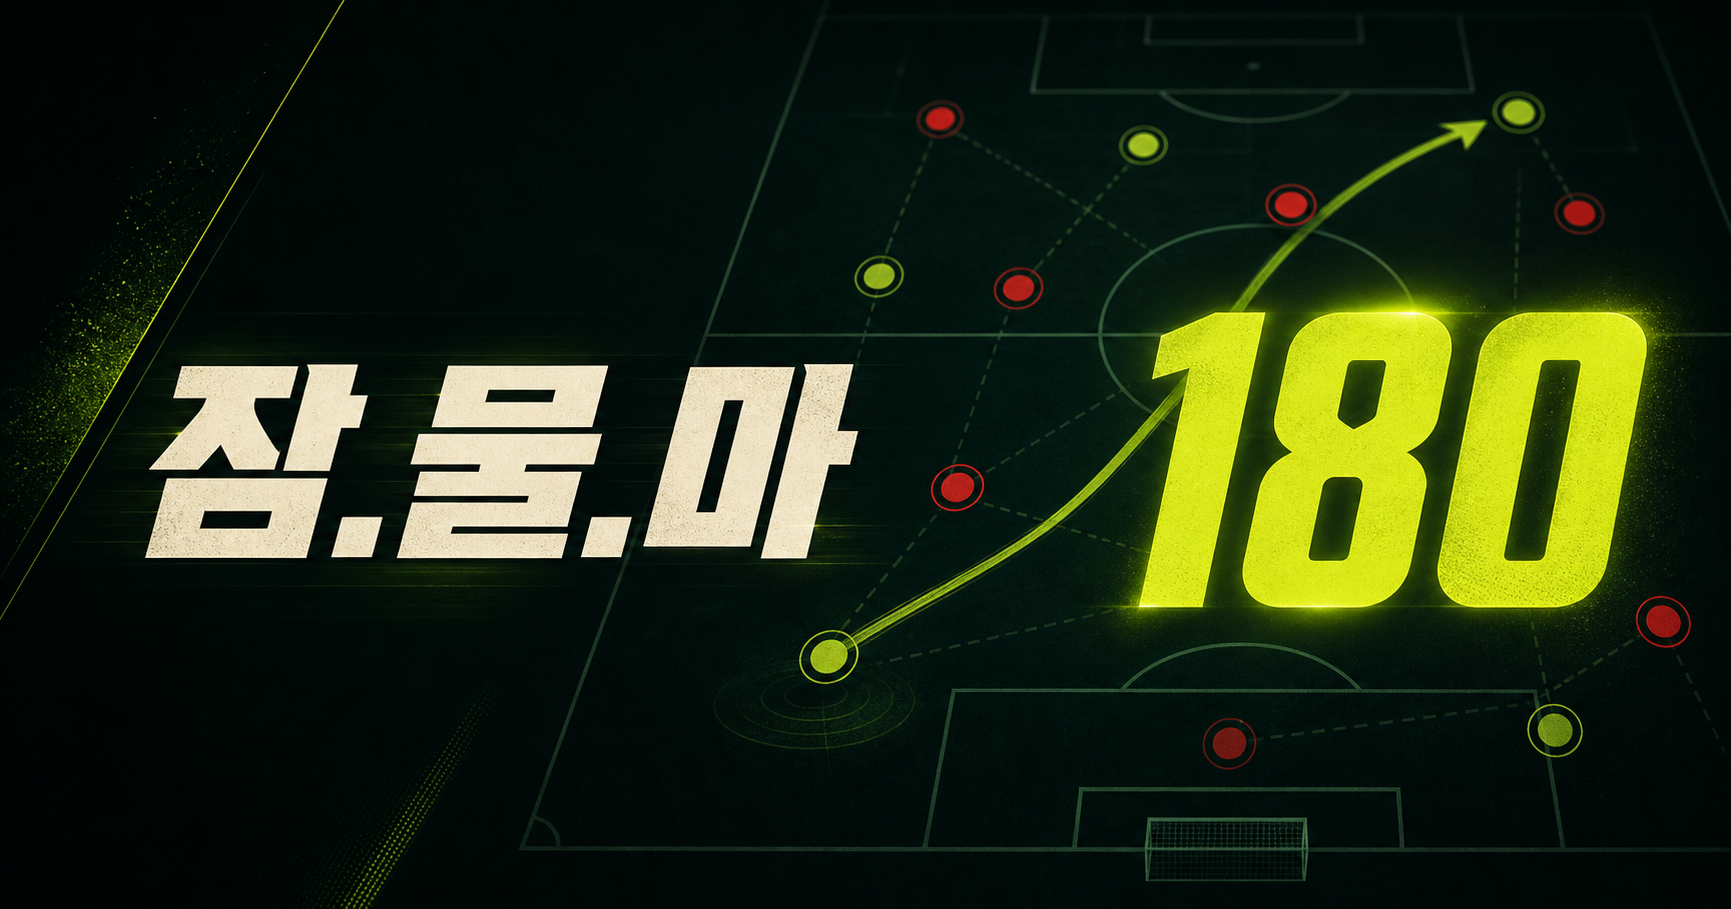
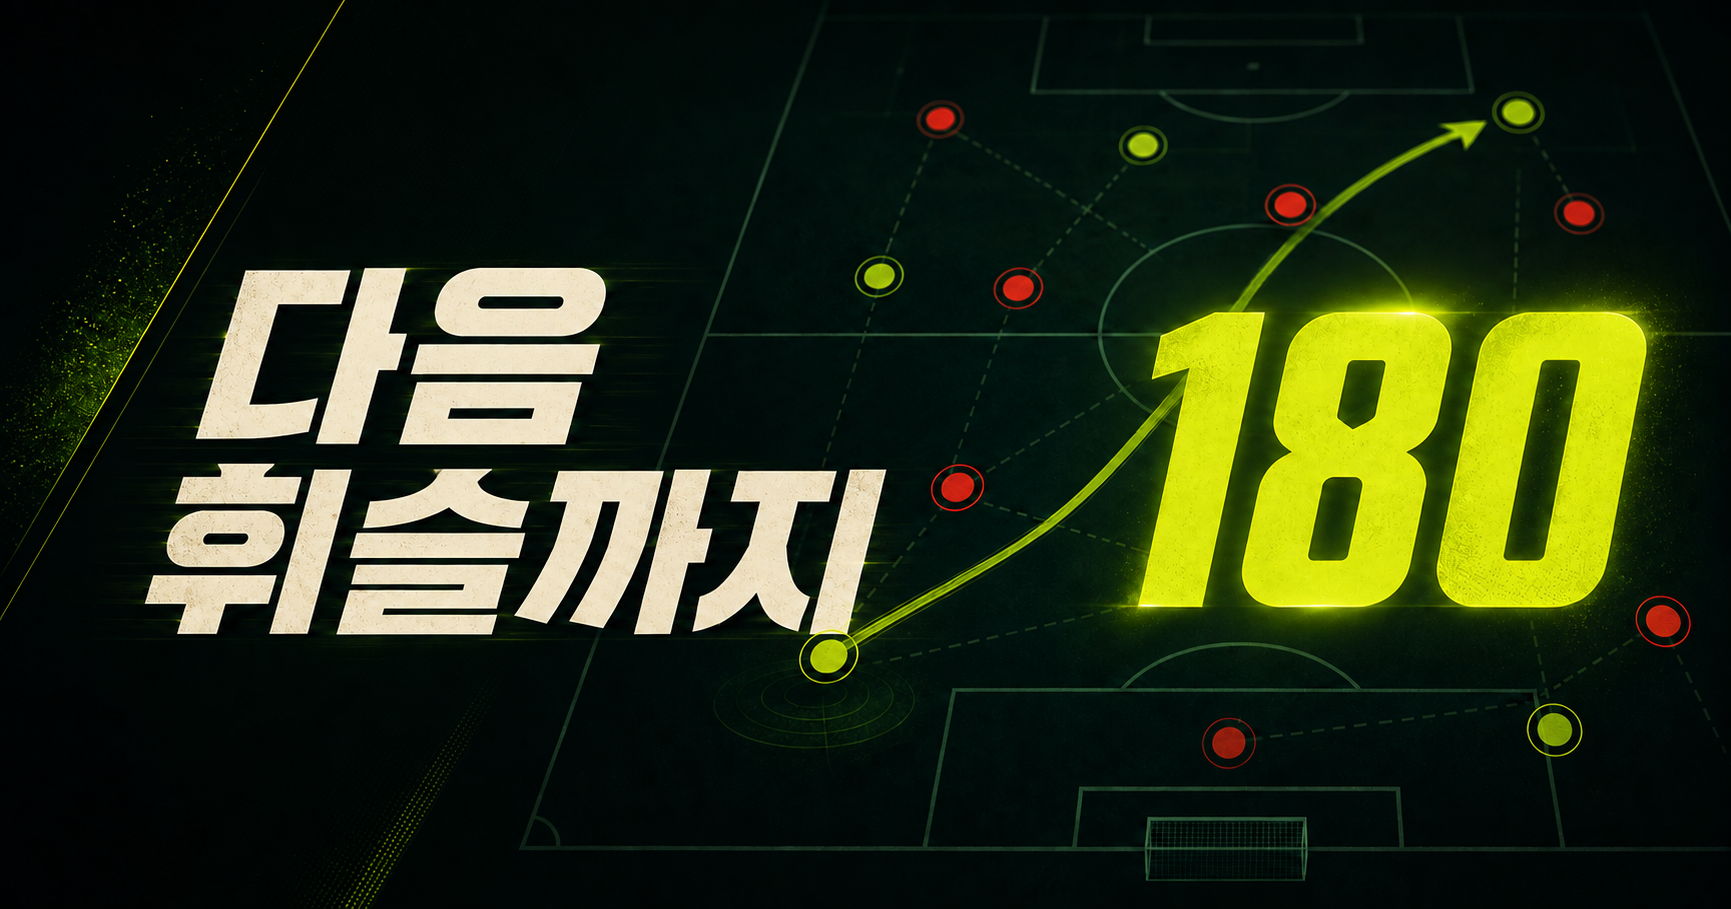
Rename game to 다음 휘슬까지

diff --git a/game/components/MatchScreens.tsx b/game/components/MatchScreens.tsx
@@ -351,7 +351,7 @@ export function ObservationScreen({
     <main className="match-shell">
       <header className="match-header">
         <div className="brand-lockup compact">
-          <span className="brand-mark">잠.물.마</span>
+          <span className="brand-mark">다음 휘슬까지</span>
           <span className="live-indicator">
             <span /> LIVE
           </span>
@@ -797,7 +797,7 @@ export function FullTimeScreen({
   return (
     <main className="fulltime-shell">
       <header>
-        <span className="brand-mark">잠.물.마</span>
+        <span className="brand-mark">다음 휘슬까지</span>
         <b>FULL TIME</b>
       </header>
       <section className="fulltime-content">
@@ -1157,7 +1157,7 @@ export function HydrationScreen({
     <main className="break-shell">
       <header className="break-header">
         <div>
-          <span className="brand-mark">잠.물.마</span>
+          <span className="brand-mark">다음 휘슬까지</span>
           <strong>
             {match.phase === "HYDRATION_FIRST" ? "전반" : "후반"} 하이드레이션
             브레이크
@@ -2044,7 +2044,7 @@ export function HalfTimeScreen({
   return (
     <main className="halftime-shell">
       <header className="halftime-header">
-        <span className="brand-mark">잠.물.마</span>
+        <span className="brand-mark">다음 휘슬까지</span>
         <div>
           <p className="eyebrow">HALF TIME · TEAM TALK</p>
           <h1>하프타임 전술 조정</h1>

diff --git a/game/components/SetupScreens.tsx b/game/components/SetupScreens.tsx
@@ -41,7 +41,7 @@ export function LandingScreen({
       <div className="landing-grid" aria-hidden="true" />
       <header className="landing-header">
         <div className="brand-lockup">
-          <span className="brand-mark">잠.물.마</span>
+          <span className="brand-mark">다음 휘슬까지</span>
           <span className="brand-kicker">WORLD CUP TACTICAL SIMULATION</span>
         </div>
         <span className="status-pill">
@@ -175,7 +175,7 @@ export function CampaignHub({
     <main className="page-shell campaign-page">
       <header className="app-header">
         <button className="brand-button" onClick={onBackToTitle}>
-          잠.물.마
+          다음 휘슬까지
         </button>
         <div className="campaign-progress">
           {MATCH_DEFINITIONS.map((definition, index) => (
@@ -340,7 +340,7 @@ export function PreMatchScreen({
     <main className="page-shell prep-page">
       <header className="app-header">
         <button className="brand-button" onClick={onBack}>
-          잠.물.마
+          다음 휘슬까지
         </button>
         <div className="phase-chip">경기 전 준비</div>
         <div className="header-matchup">

diff --git a/app/layout.tsx b/app/layout.tsx
@@ -2,7 +2,7 @@ import type { Metadata } from "next";
 import { headers } from "next/headers";
 import "./globals.css";
 
-const title = "잠.물.마 | 월드컵 감독 시뮬레이션";
+const title = "다음 휘슬까지 | 월드컵 감독 시뮬레이션";
 const description =
   "화면상 180초, 실제 최대 60초 안에 가장 중요한 전술부터 전달하는 월드컵 감독 시뮬레이션.";
 
@@ -25,7 +25,7 @@ export async function generateMetadata(): Promise<Metadata> {
       description,
       type: "website",
       locale: "ko_KR",
-      images: [{ url: imageUrl, width: 1731, height: 909, alt: "잠.물.마" }],
+      images: [{ url: imageUrl, width: 1731, height: 909, alt: "다음 휘슬까지" }],
     },
     twitter: {
       card: "summary_large_image",

diff --git a/game/components/ReportScreens.tsx b/game/components/ReportScreens.tsx
@@ -92,7 +92,7 @@ export function ReportScreen({
     <main className="report-shell">
       <header className="app-header report-header">
         <button className="brand-button" onClick={onTitle}>
-          잠.물.마
+          다음 휘슬까지
         </button>
         <div className="phase-chip">경기 후 리포트</div>
         <span>GROUP {result.round} 종료</span>
@@ -304,7 +304,7 @@ export function FinalCampaignScreen({
       <div className="final-background" aria-hidden="true" />
       <header className="final-header">
         <button className="brand-button light" onClick={onTitle}>
-          잠.물.마
+          다음 휘슬까지
         </button>
         <span>CAMPAIGN COMPLETE</span>
       </header>

diff --git a/app/globals.css b/app/globals.css
@@ -128,6 +128,7 @@ p {
 }
 
 .brand-mark {
+  white-space: nowrap;
   font-size: 26px;
   font-weight: 950;
   letter-spacing: -0.08em;
@@ -153,6 +154,7 @@ p {
 }
 
 .brand-button {
+  white-space: nowrap;
   background: transparent;
   border: 0;
   cursor: pointer;

diff --git a/README.md b/README.md
@@ -1,8 +1,8 @@
-# 잠.물.마
+# 다음 휘슬까지
 
 [![CI](https://github.com/jjw712/Worldcup_dacon/actions/workflows/ci.yml/badge.svg)](https://github.com/jjw712/Worldcup_dacon/actions/workflows/ci.yml)
 
-> 잠깐 물만 마시지 말고 내 말도 들어다오
+> 다음 휘슬이 울리기 전, 경기를 바꿀 한 수.
 
 대한민국 대표팀 감독이 되어 월드컵 조별리그 3경기를 운영하는 PC 웹 축구 감독
 시뮬레이션입니다. 제한된 시간과 AP 안에서 전술, 교체와 선수 지시를 결정하며,
